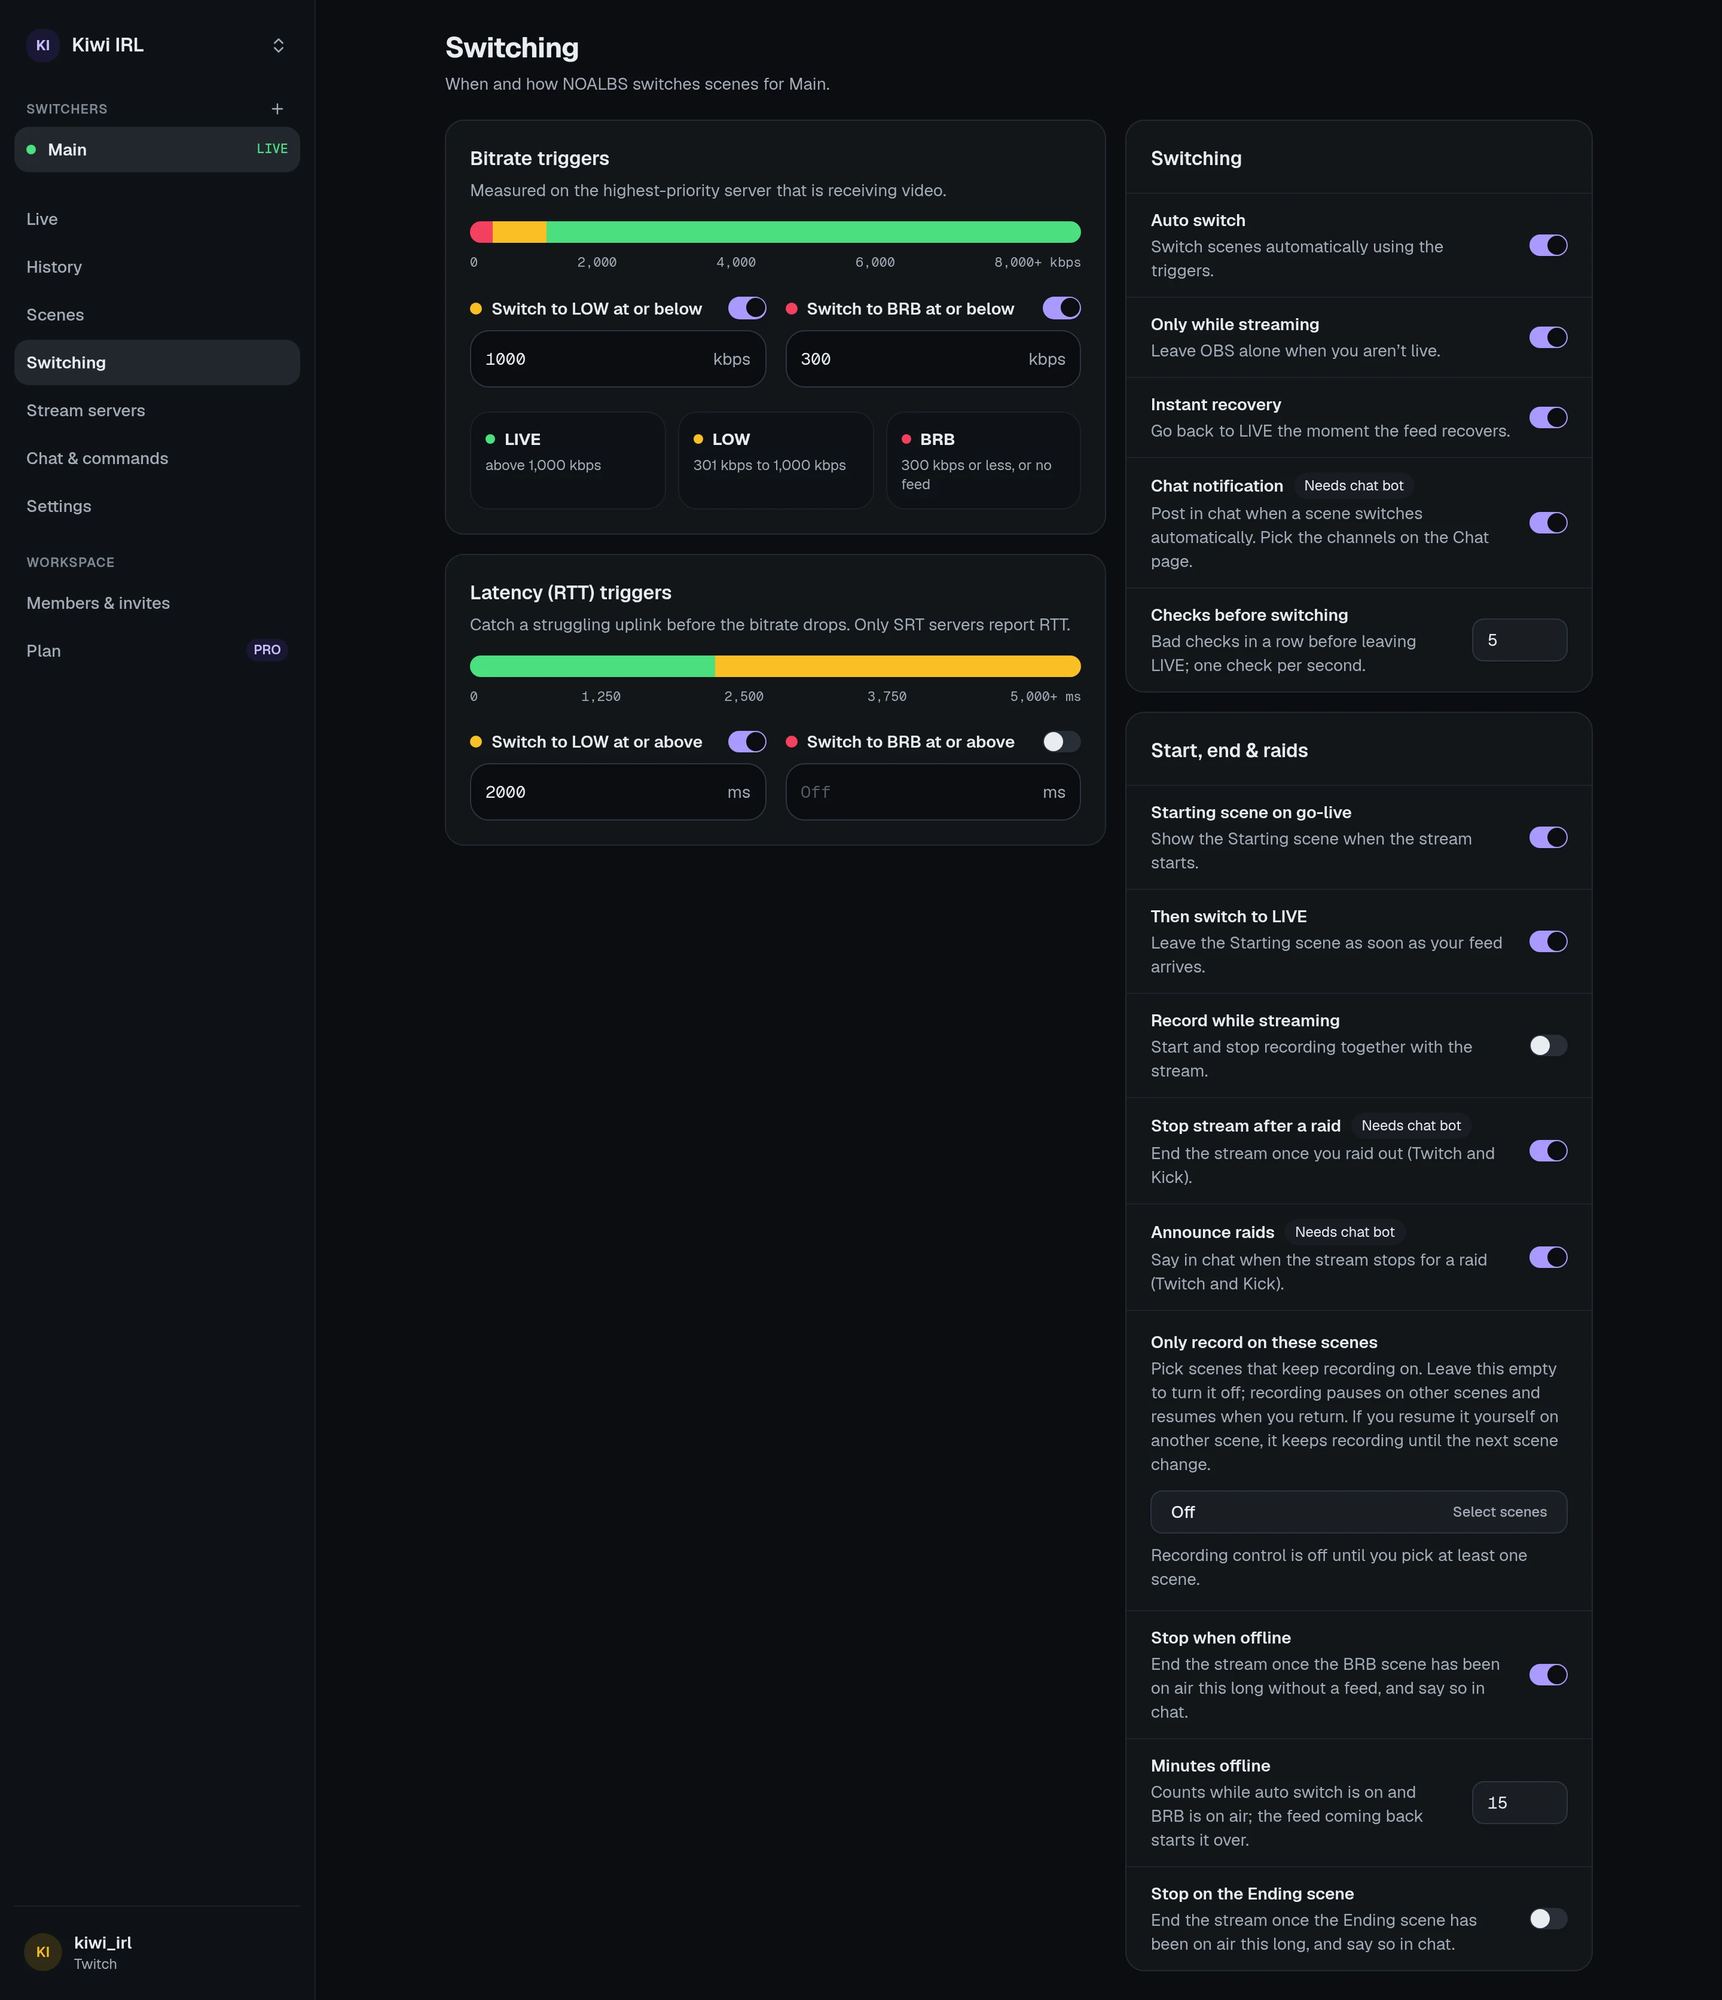
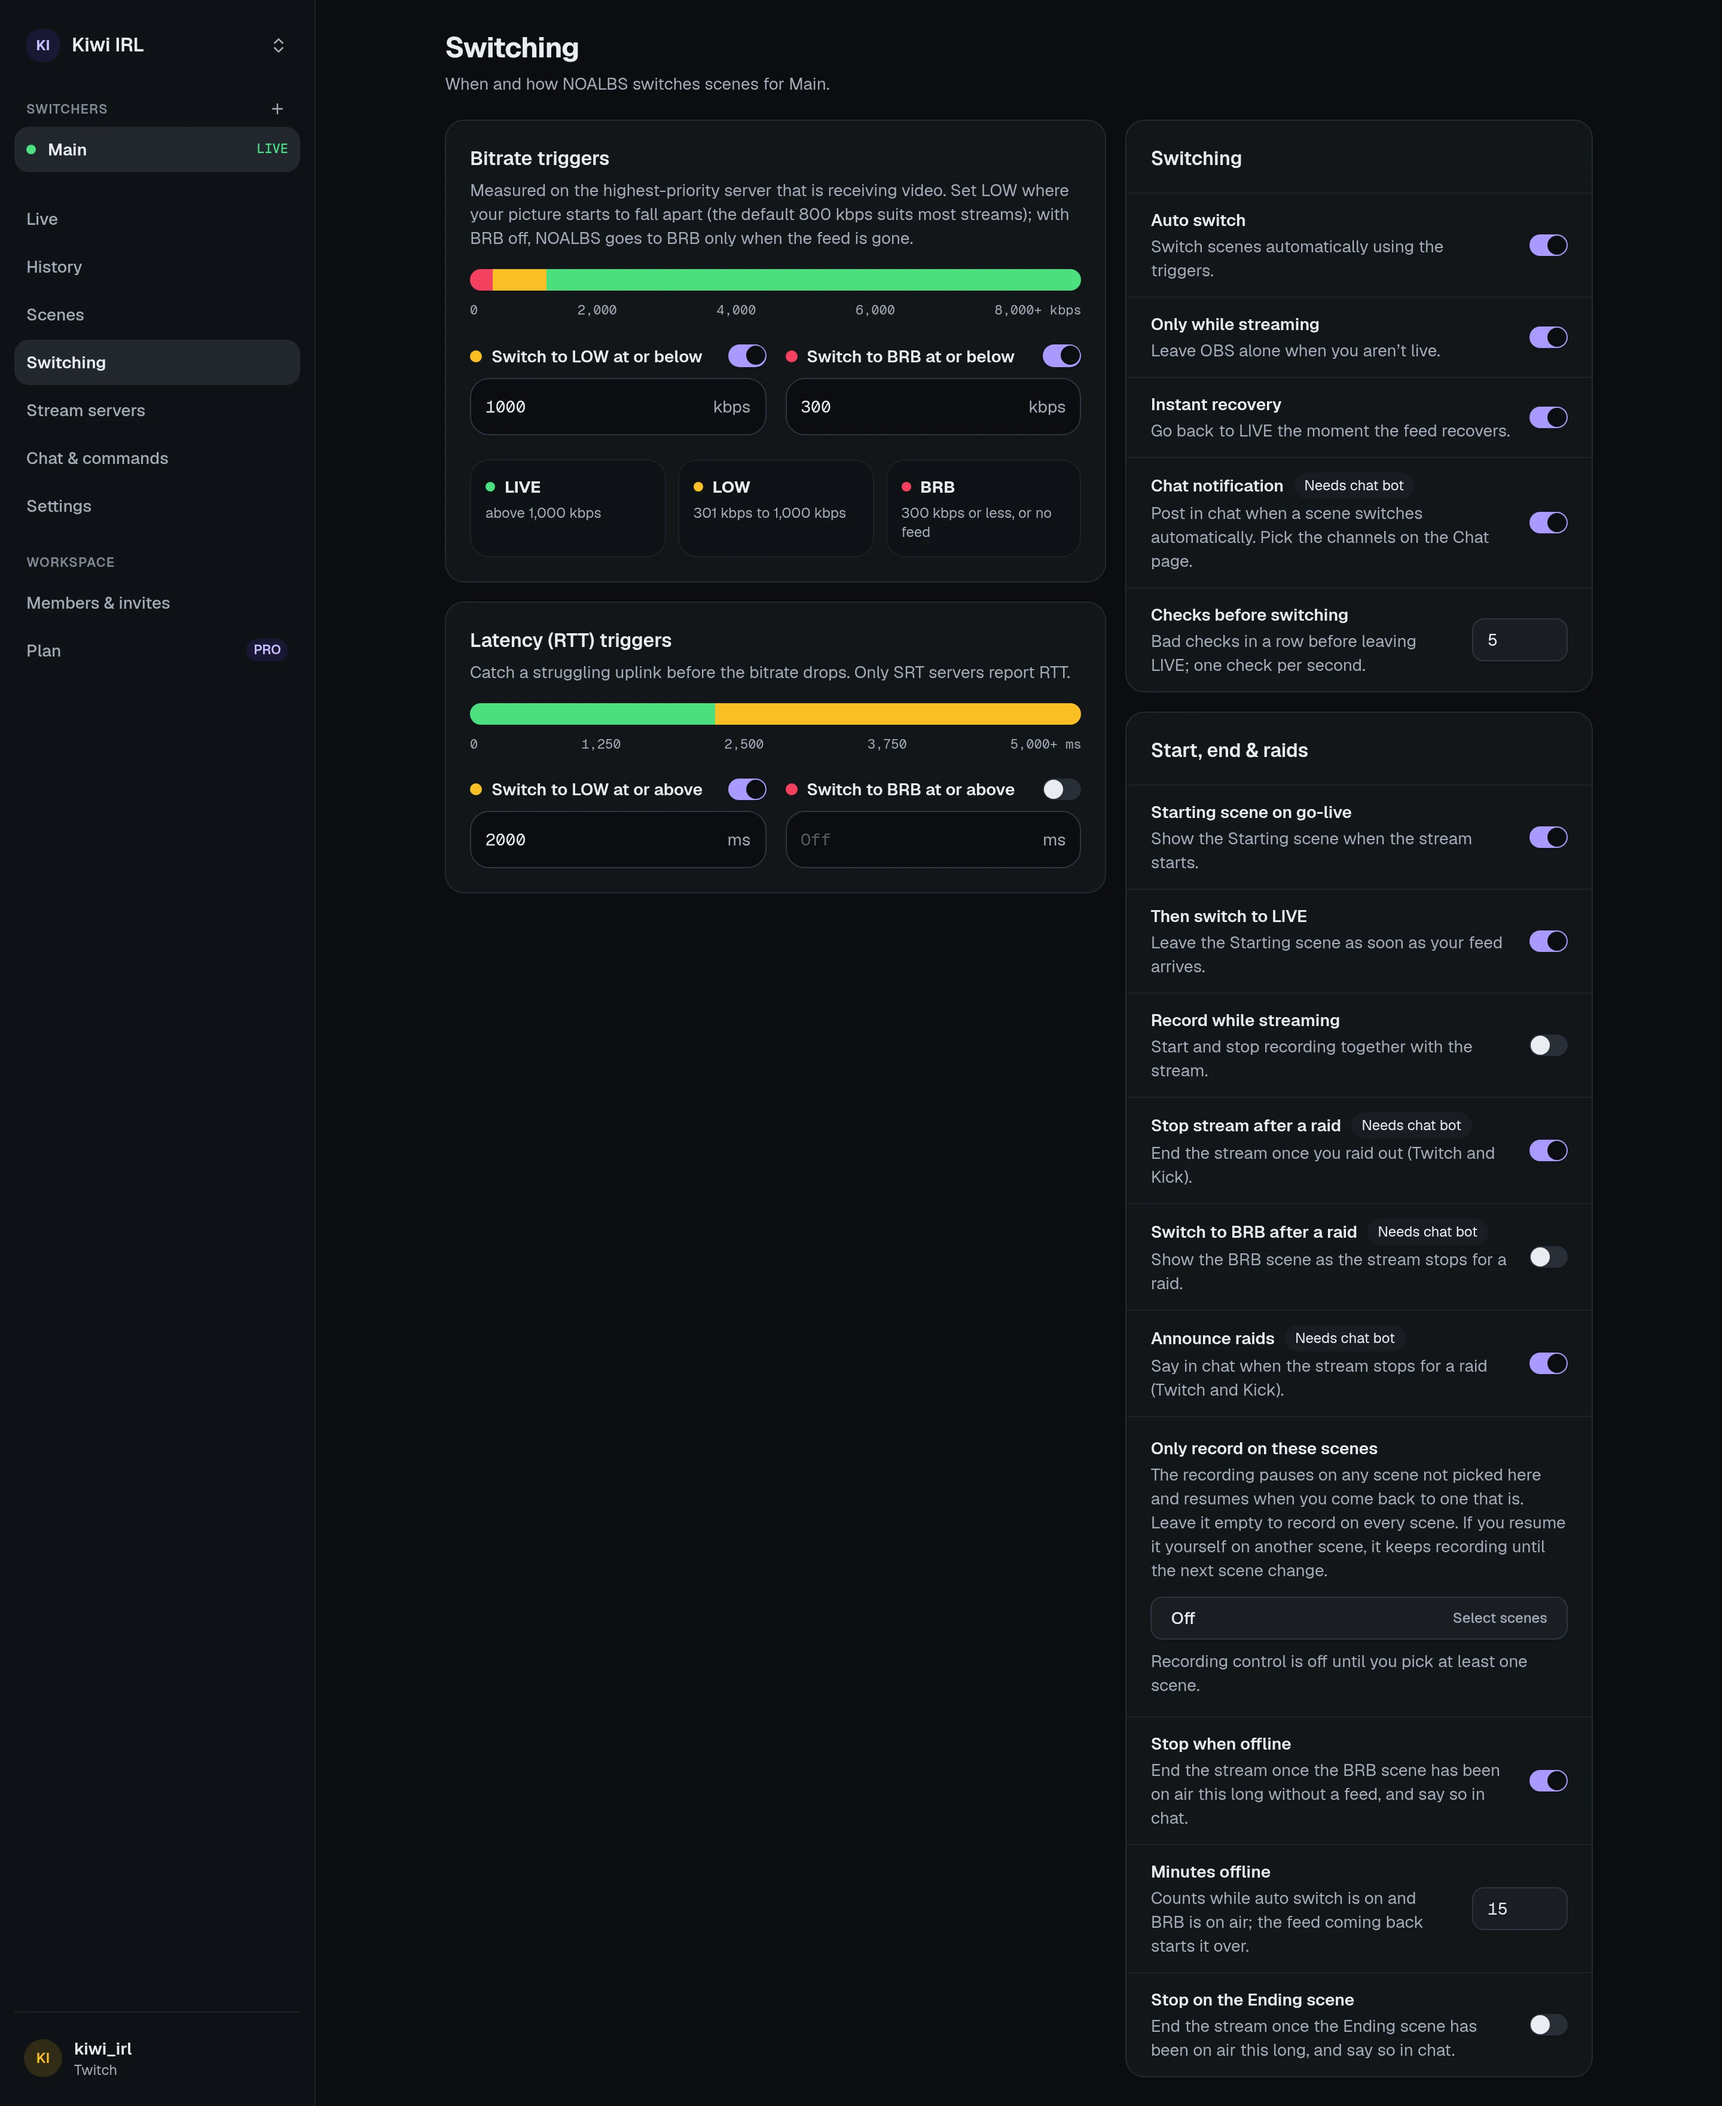
Document Switch to BRB after a raid
The Switching page has a new setting: show the BRB scene as the stream
stops for a raid (the stream server's own BRB scene if it has one, else
the switcher's), with Stop stream after a raid on. It's in the table and
the retaken screenshot. The screenshot seed sends the new field, which
the API now requires.

Claude-Session: https://claude.ai/code/session_01G5gw1K3Xu6AgpYPnkRgmGZ

diff --git a/src/content/docs/guides/switching.md b/src/content/docs/guides/switching.md
@@ -74,6 +74,7 @@ and waits for a real number.
 | **Then switch to LIVE** | off | Leave the Starting scene as soon as your feed arrives. |
 | **Record while streaming** | off | Start and stop recording together with the stream. |
 | **Stop stream after a raid** | off | End the stream once you raid out (Twitch and Kick). Needs the chat bot. |
+| **Switch to BRB after a raid** | off | Show the BRB scene as the stream stops for a raid: the stream server's own BRB scene if it has one, else the switcher's. Needs **Stop stream after a raid**. |
 | **Announce raids** | off | Say in chat when the stream stops for a raid, with a link to the raided channel. |
 
 ### Stopping automatically
